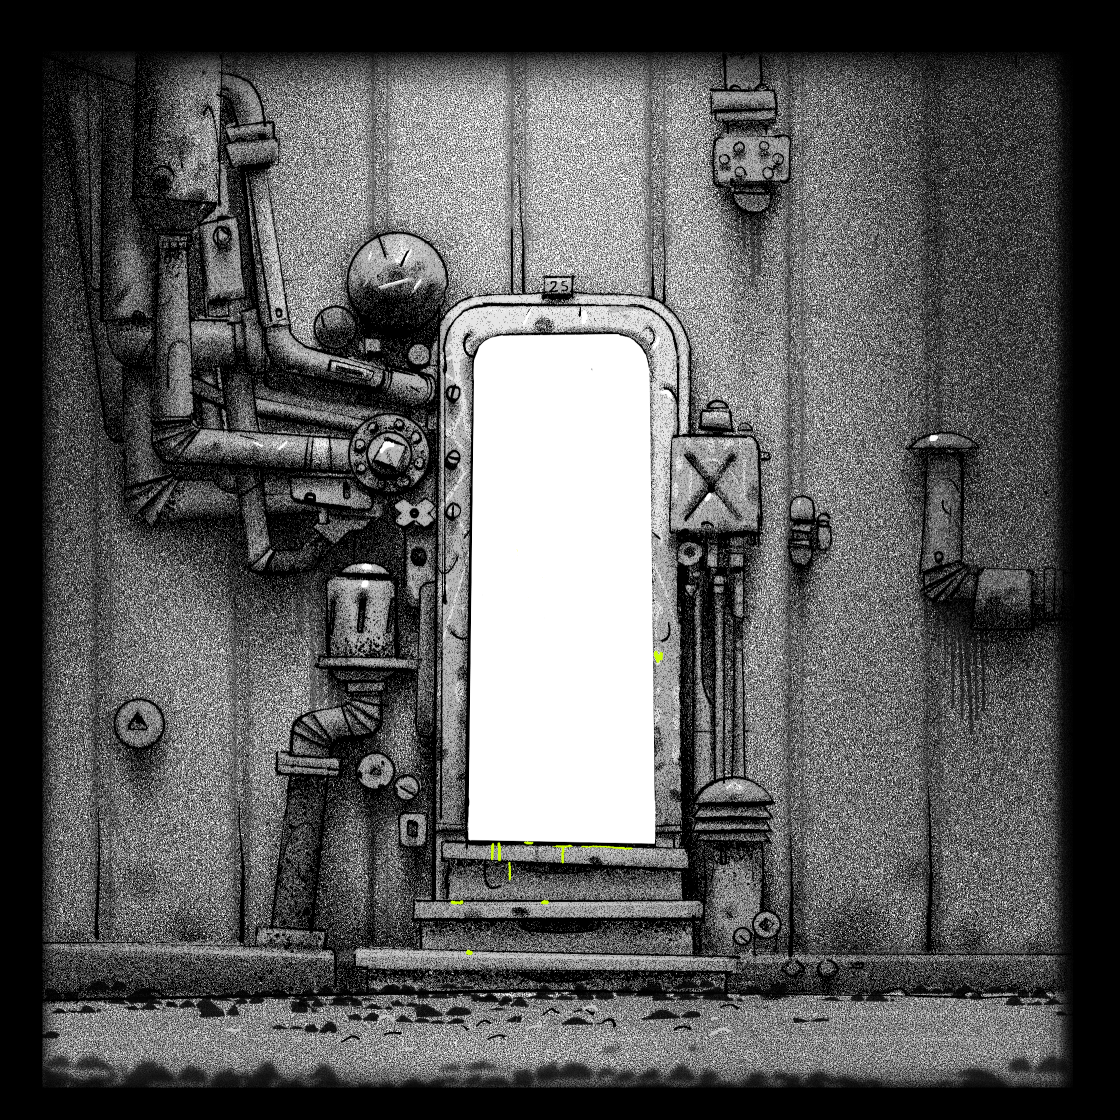
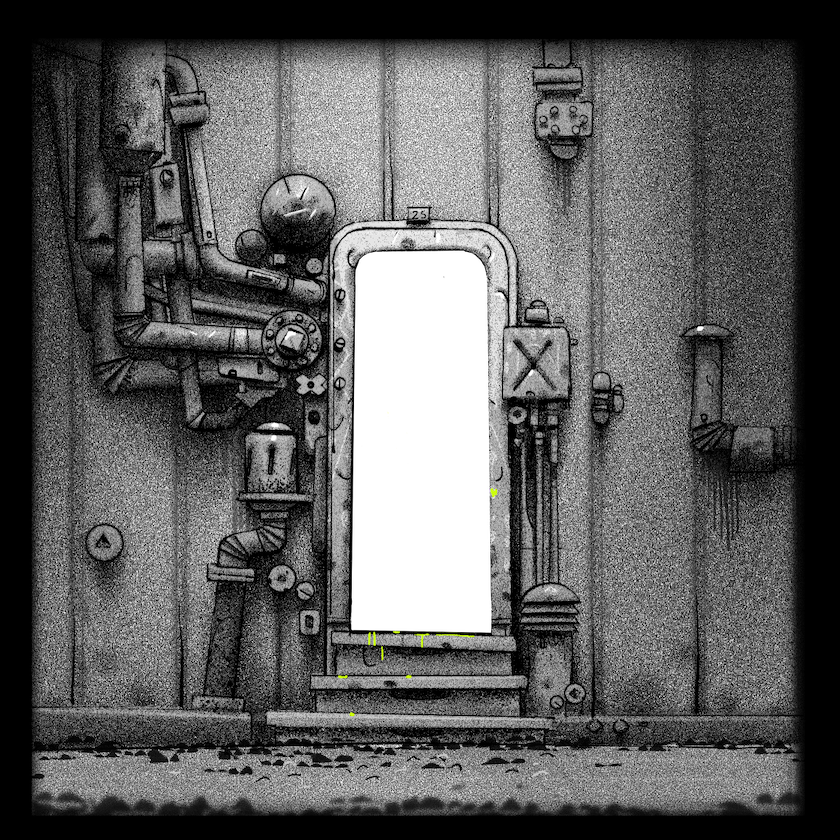
⚡ made images smaller and implemented rudimentary loading

diff --git a/src/App.js b/src/App.js
@@ -20,6 +20,14 @@ export const DOOR_STATES = {
   open: 3,
 }
 
+export const LOADING_STATES = {
+  loading: 0,
+  preload: 1,
+  main: 2,
+  extras: 3,
+  done: 4
+}
+
 export const AppContext = createContext({
   doorState: undefined,
   setDoorState: undefined,
@@ -74,13 +82,15 @@ function App() {
     // trigger when floorState changes
   }, [floorState])
 
+  const [loadedState, setLoadedState] = useState(LOADING_STATES.loading)
+
   return (
     <Web3Context.Provider value={Web3ContextData}>
       <WalletConnect />
-      <AppContext.Provider value={{ doorState, setDoorState, floorState, setFloorState }}>
+      <AppContext.Provider value={{ doorState, setDoorState, floorState, setFloorState, loadedState, setLoadedState }}>
         <div className="App">
           <div className="StageContainer overlay">
-            <LogoBackSplash srcImg={logo_back_splash} disabled={false} loading={Web3ContextData.loading} />
+            <LogoBackSplash srcImg={logo_back_splash} disabled={false} />
           </div>
           <div className={`${floorState < 0 ? 'isHidden' : ''} `}>
             <div className="FloorTop" />

diff --git a/src/components/Door.js b/src/components/Door.js
@@ -1,6 +1,6 @@
 import './Door.css'
 import React, { useContext, useEffect, useState } from 'react'
-import { Web3Context, AppContext, DOOR_STATES } from '../App'
+import { Web3Context, AppContext, DOOR_STATES, LOADING_STATES } from '../App'
 
 import Clickable from './Clickable'
 import LightThing from './LightThing'
@@ -59,7 +59,7 @@ function Door() {
   return (
     <>
       <LightThing position={lightParams} />
-      <DoorThing handleClick={handleClick} doorState={doorState} />
+      <DoorThing handleClick={handleClick} doorState={doorState}/>
     </>
   )
 
@@ -82,7 +82,7 @@ function Door() {
   // );
 }
 
-function DoorThing({ doorState, handleClick }) {
+function DoorThing({ doorState, handleClick, loadedHandler }) {
   return (
     <>
       <Clickable

diff --git a/src/components/Wall.js b/src/components/Wall.js
@@ -1,8 +1,22 @@
 import './Wall.css'
+import React, { useContext, useEffect, useState } from 'react'
+import { Web3Context, AppContext, DOOR_STATES, LOADING_STATES } from '../App'
 
 function Wall() {
+  const { doorState, setDoorState, floorState, setFloorState } = useContext(AppContext)
+  const { loadedState, setLoadedState } = useContext(AppContext)
+
+  const loadedHandler = () => {
+    console.log('loaded image')
+    setLoadedState(LOADING_STATES.preload)
+  }
+
   return (
-    <div className="StageLayer Wall"></div>
+    <div className="StageLayer Wall" onLoad={loadedHandler}>
+      <img src='image/web/stage_wall.png'
+           onLoad={loadedHandler}
+      />
+    </div>
   )
 }
 

diff --git a/src/components/LogoBackSplash.js b/src/components/LogoBackSplash.js
@@ -1,13 +1,16 @@
-import React, { useEffect, useState } from 'react'
+import React, { useEffect, useState, useContext } from 'react'
+import { AppContext, LOADING_STATES } from '../App'
 
 import './LogoBackSplash.scss'
 function LogoBackSplash(props) {
 
+  const { loadedState } = useContext(AppContext)
+  console.log({ loadedState})
 
   return props.disabled ? (
     <></>
   ) : (
-    <img id={'logo_back_splash'} src={props.srcImg} className={props.loading ? '' : 'finished-loading'} />
+      <img id={'logo_back_splash'} src={props.srcImg} className={loadedState < 1 ? '' : 'finished-loading'} />
   )
 }
 

diff --git a/src/components/Wall.css b/src/components/Wall.css
@@ -1,5 +1,5 @@
 .Wall {
-  background-image: url('../img/stage_wall.png');
+  /* background-image: url('../img/stage_wall.png'); */
   z-index: 1;
   pointer-events: none;
 }
